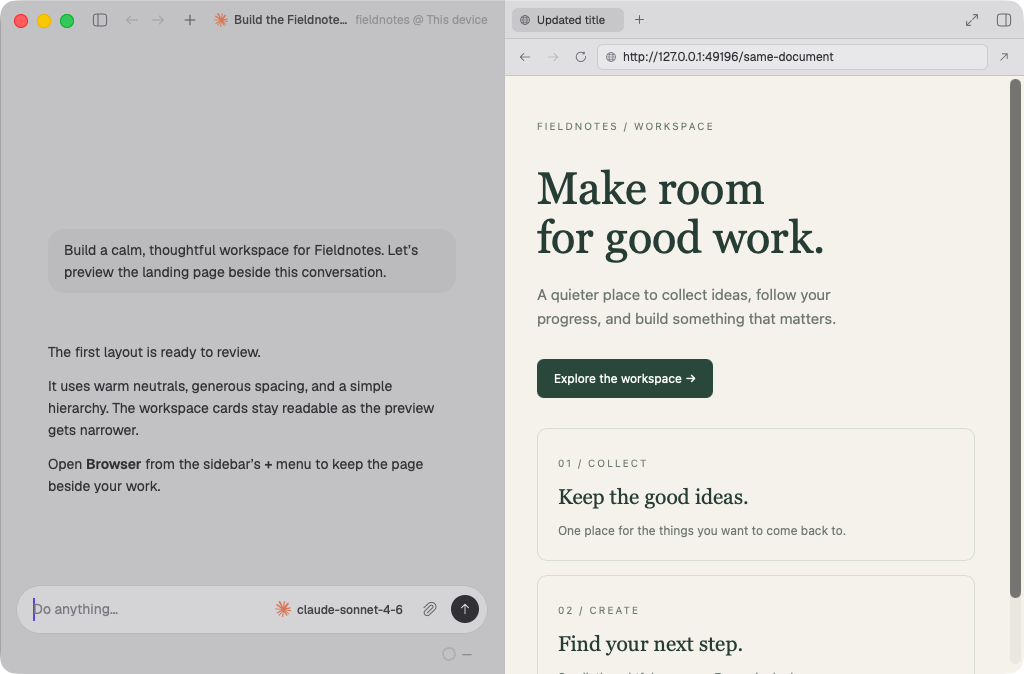
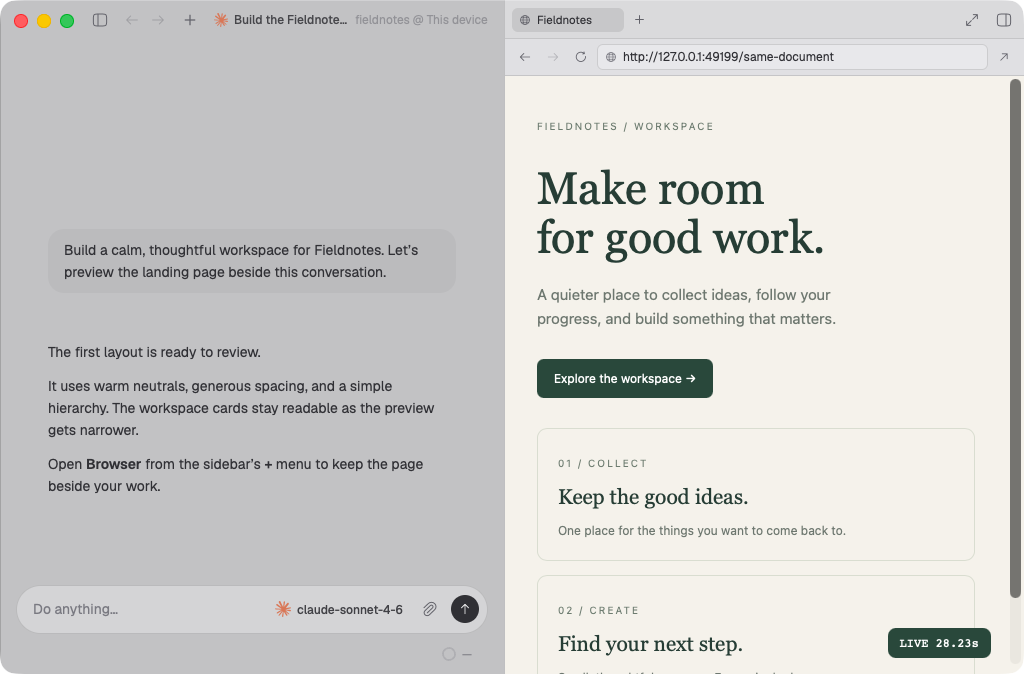
Document live browser overlays with native screenshots and attached video

diff --git a/docs/screenshots/browser/README.md b/docs/screenshots/browser/README.md
@@ -15,8 +15,21 @@ cargo run --release --locked -p zeron-ui --example browser-fixture \
 Linux requires an X11 desktop session, `xdotool`, and ImageMagick. These screenshots
 are not included in the app's embedded assets or distribution bundle.
 
-The committed macOS images were captured by [CI run 34290571239](https://github.com/zeronsh/comet/actions/runs/34290571239)
-at source commit `29eaf99e`. Its native fixture completion marker and all checks
+The committed macOS images were captured by [CI run 34308828299](https://github.com/zeronsh/comet/actions/runs/34308828299)
+at source commit `d5c08649`. Its native fixture completion marker and all checks
 passed. The hosted Mac has a 1024px desktop, so the fixture uses Zeron's existing
 collapsed-left-sidebar layout. The Linux captures use a 1320px window with both
 sidebars visible.
+
+The video attached to PR #282 is a continuous 24-second macOS screen recording from the same
+fixture run, converted from the artifact’s original MOV to H.264 MP4 without
+changing its timing or sequence. It shows rapid tab/toolbar hovering, repeated
+tab and toolbar tooltips, and menu dismissal above a live page. The green timer
+is rendered by the website using requestAnimationFrame. The native fixture
+asserts zero hide/snapshot transitions during hover, preserved tooltip focus,
+click-through for passive tooltips, and outside-click isolation/restoration for
+the menu. The original MOV and completion marker are retained in the CI artifact.
+
+[Watch the hover regression recording](https://github.com/user-attachments/assets/3b522c2c-6b07-4f74-8c1b-694c27ab8a8c). The video is hosted as a GitHub
+user attachment and is not committed to this repository. The screenshots are
+documentation only and are excluded from the app bundle.
